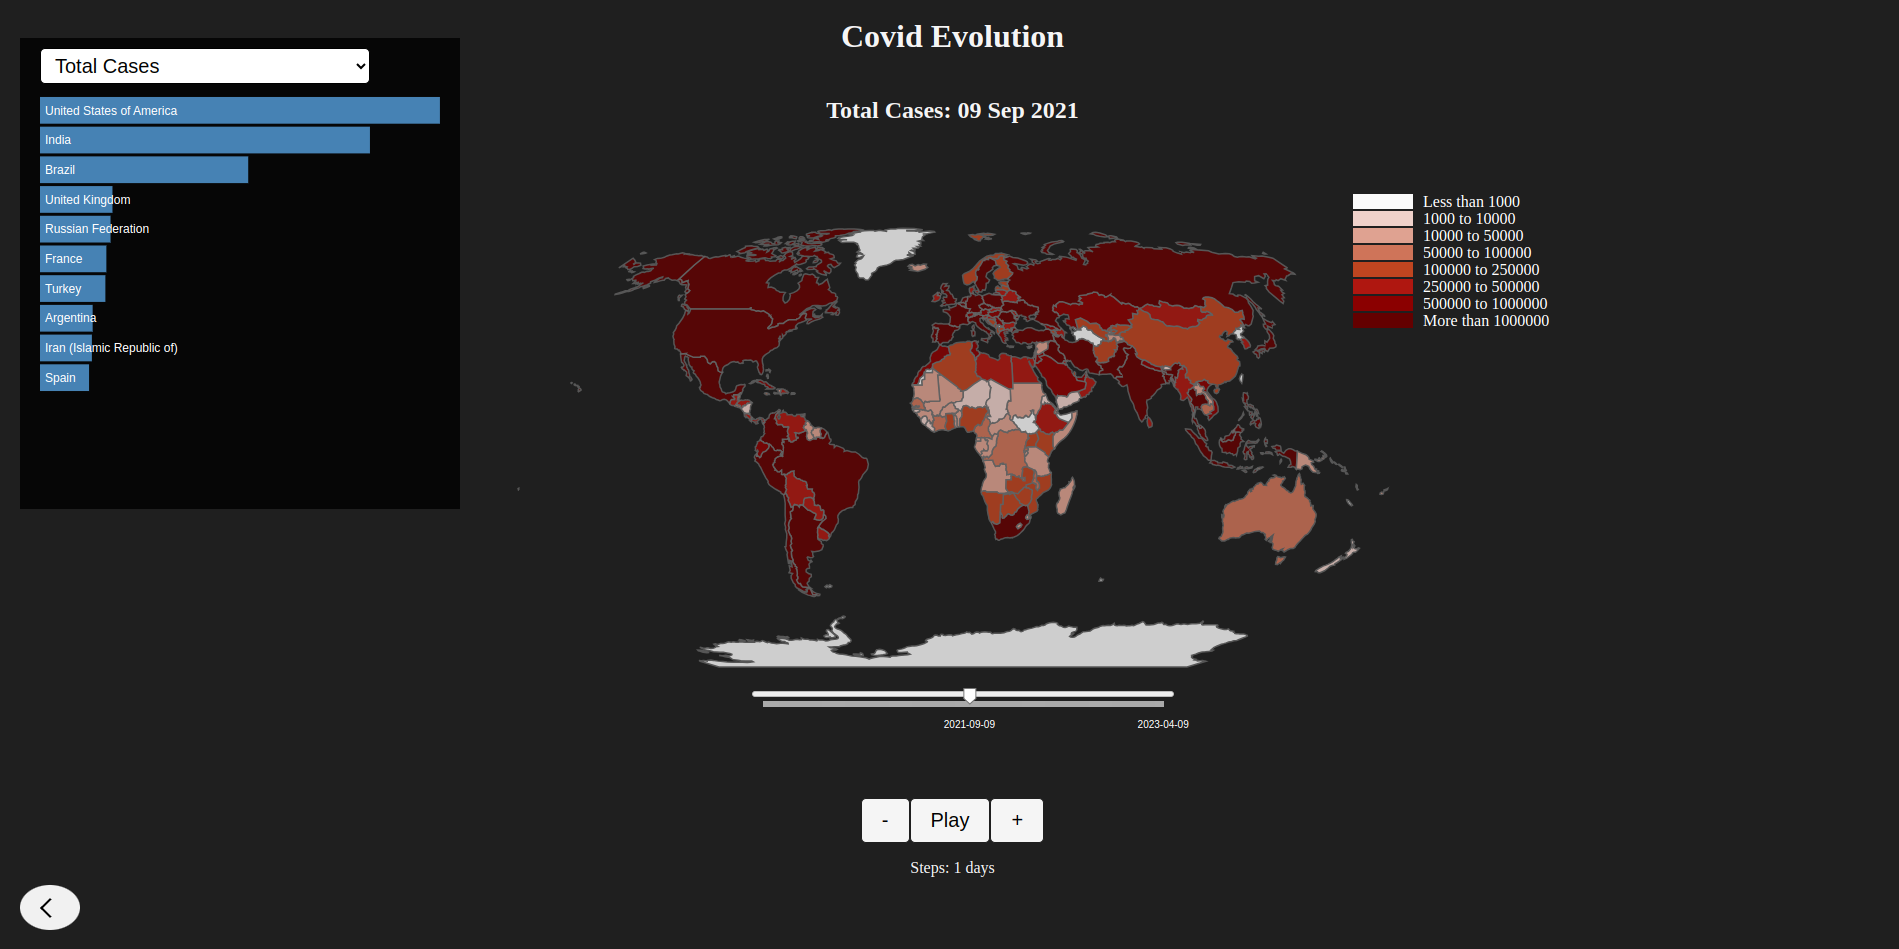
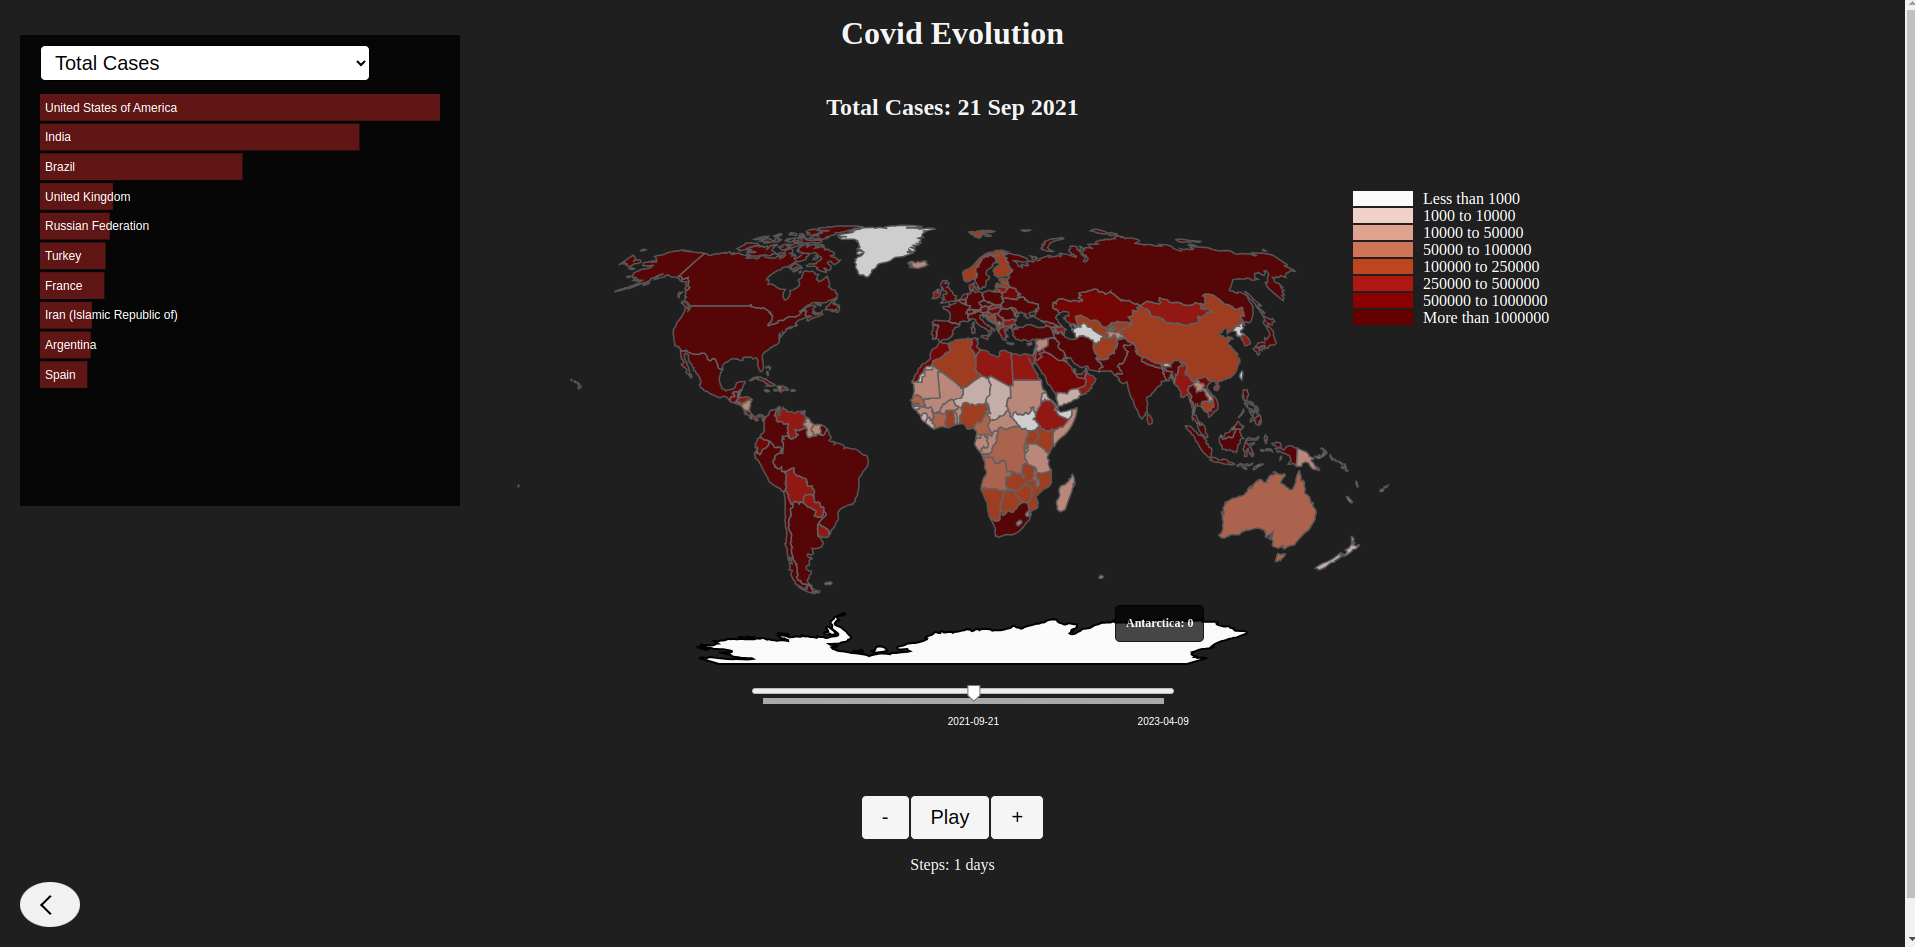
change covid timeline overview fill color

diff --git a/scripts/covid-timeline.js b/scripts/covid-timeline.js
@@ -328,7 +328,7 @@ const colors = [
           .attr('y', d => yScale(isoDict[d.iso_code]))
           .attr('width', d => xScale(d[selectedVar]))
           .attr('height', yScale.bandwidth())
-          .attr('fill', 'steelblue')
+          .attr('fill', 'rgb(97, 22, 22)')
           .attr('id', d => `bar-${isoDict[d.iso_code]}`);
       
         // Create the labels
@@ -371,7 +371,7 @@ const colors = [
         })
           .on('mouseout', function() {
             d3.select(this)
-              .attr('fill', 'steelblue')
+              .attr('fill', 'rgb(97, 22, 22)')
             let selectedBar = d3.select(this).attr('id').split('-')[1];
             document.getElementById(`count-${selectedBar}`).style.opacity = 0;
             document.getElementById(`label-${selectedBar}`).style.opacity = 1;
